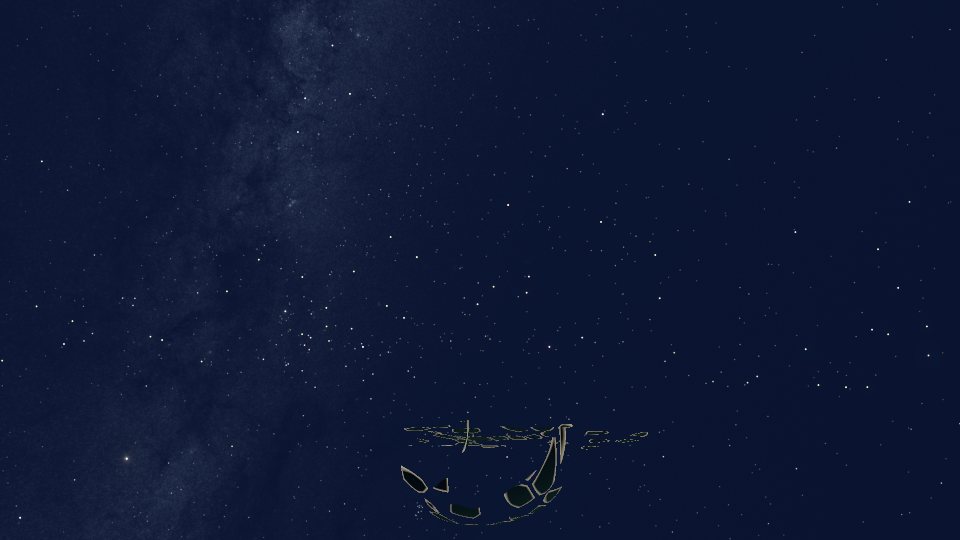
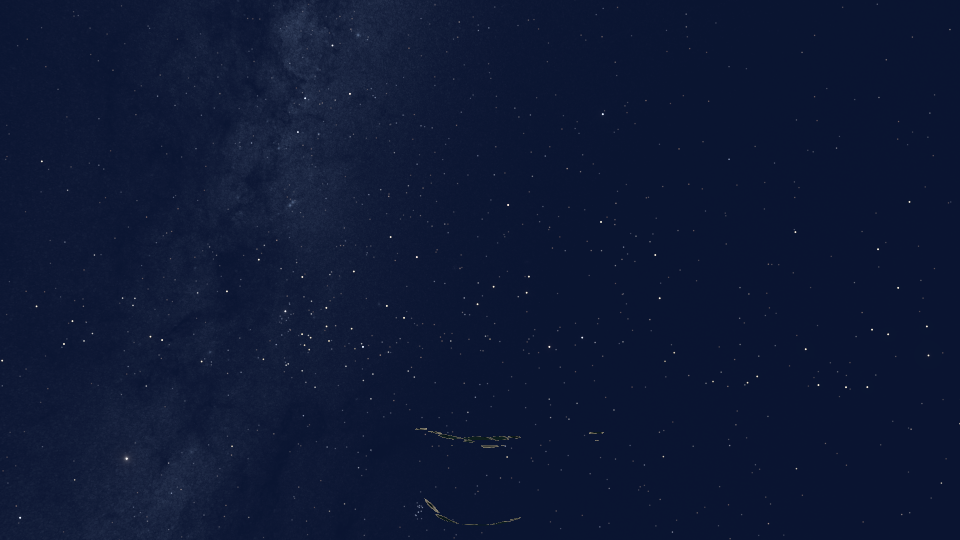
Mirrors: mirror 12's dust at half gain (born in the white's impact; flash wsu 1.03 -> re-run)
Claude-Session: https://claude.ai/code/session_01TPk3Xf1e9wdpx1j441uF4n

diff --git a/Mirrors/Tools~/port/mirror_port.py b/Mirrors/Tools~/port/mirror_port.py
@@ -35,6 +35,7 @@ BRONZE_TONE = 1.0
 RIM_SCHEME = 'JSON'       # the schedule's rim_soft; mirror13_study.py overrides it for the comparison schemes
 RIM_SOFT_FROM = {'A': 0.80, 'C': 0.55, 'D': 0.55, 'E': 0.35, 'F': 0.25, 'G': 0.25, 'H': 0.80, 'JSON': 0.35}
 FAR_UNTIL, FAR_SECONDS, FAR_DIM = 1131.31, 6.0, float(os.environ.get('FAR_DIM', 0.6))   # = LanbaiMirrorsDriver farUntil / farSeconds / farDim (M-4)
+DUST_GAIN_IMPACT = 0.5   # mirror 12's dust is born in the white's impact: half (flash wsu)
 RIM_GLOW = float(os.environ.get('RIM_GLOW', 0.06)) * np.array([0.8, 0.9, 1.0])   # = LanbaiMirrorsDriver rimGlow: mirror 13's ring while far (bible: rim screen luma 60-90, #4E545E)
 
 
@@ -466,6 +467,7 @@ def frame(t, yaw=0.0, pitch=0.0, w=960, h=540, ss=1, cabin=None, dust=True, extr
             dirs = pos - EYE; dist = np.linalg.norm(dirs, axis=-1); dirs /= dist[:, None]
             rmin = 1.4 / 1.4133 * pxang * dist
             peak = 6.0 * np.minimum(0.05 / rmin, 1) ** 2 * br * alive * np.clip((dist - 0.3) / 0.7, 0, 1)
+            peak = peak * (DUST_GAIN_IMPACT if m['index'] == 12 else 1.0)   # = LanbaiMirrorsDriver dustGainImpact
             layer = np.zeros_like(img)
             SC.splat(layer, W, H, fov, yaw, pitch, dirs, peak, col, fw)
             img += layer

diff --git a/Mirrors/Runtime/LanbaiMirrorsDriver.cs b/Mirrors/Runtime/LanbaiMirrorsDriver.cs
@@ -64,6 +64,7 @@ namespace Lanbai.Mirrors
         public float appearSeconds = 3f;
         public float pulseIn = 0.08f;
         public float pulseOut = 0.35f;
+        public float dustGainImpact = 0.5f;         // mirror 12's dust is born in the white's impact (1137.58 -> 1138.78): half (flash wsu: 1 s <= 1.0 EV)
         public float rimLightE = 0.3f;
         [Header("Rim light (总导演 F7, 10-24: one point light, no shadows, Not Important, culling Player + PlayerLocal)")]
         public Light rimLight;                      // built by 蓝白/Build/Mirrors; driven by the envelope, off at 0
@@ -396,7 +397,7 @@ namespace Lanbai.Mirrors
                     continue;
                 mpb.Clear();
                 mpb.SetFloat(idDustNow, t);
-                mpb.SetFloat(idDustOn, 1f);
+                mpb.SetFloat(idDustOn, kk == n - 2 ? dustGainImpact : 1f);
                 mpb.SetFloat(idDustT0, tCross[kk]);
                 mpb.SetVector(idDustC, dustC[kk]);
                 mpb.SetVector(idDustCar, dustCar[kk]);
